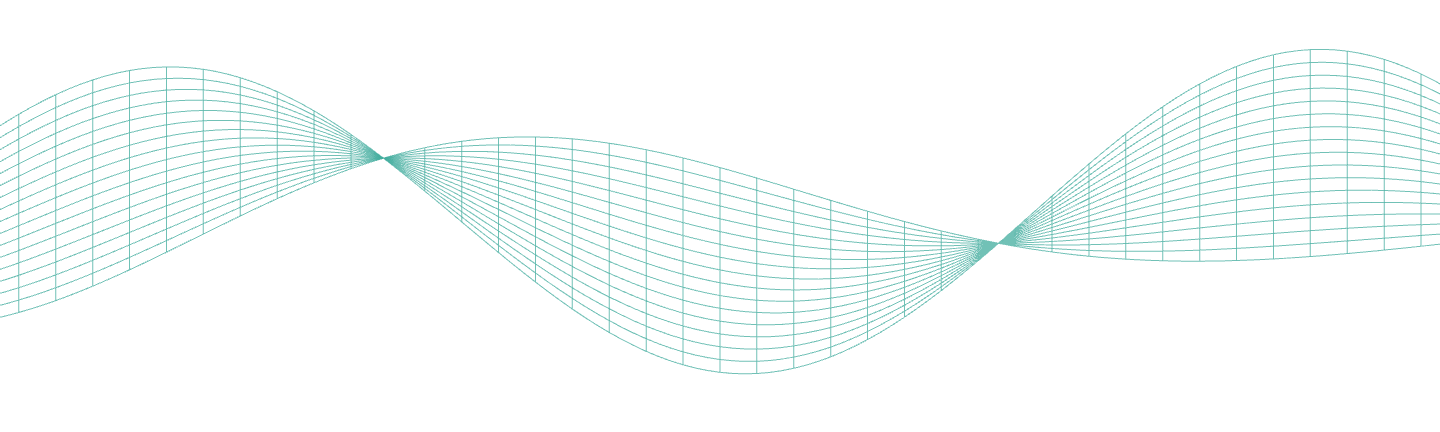
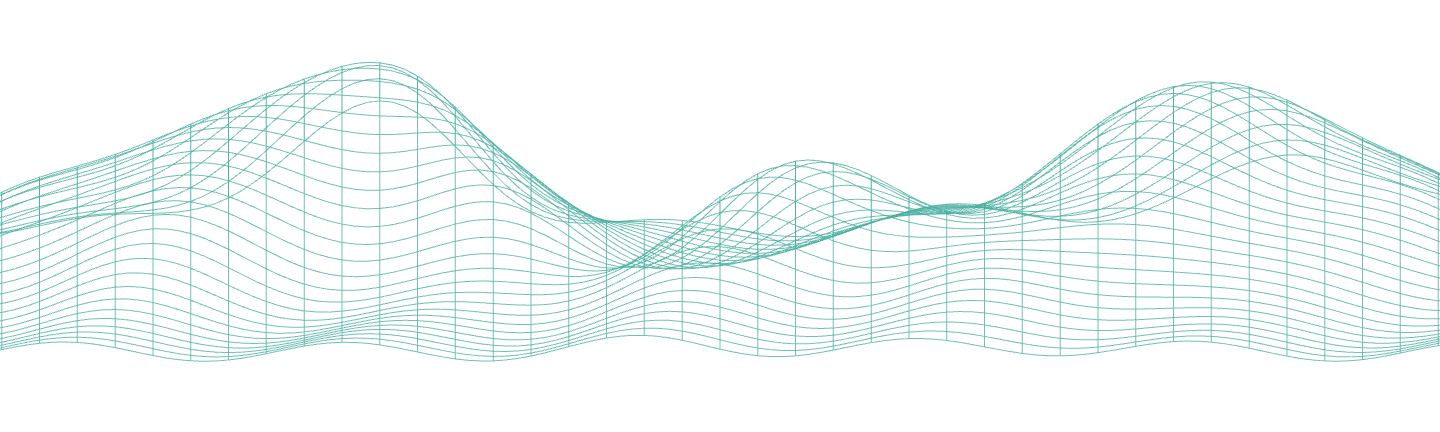
Modela a malha de fundo como relevo topográfico

Changed region(s): [[0.0, 0.0903, 1.0, 0.8727]]

diff --git a/src/scroll-mesh.js b/src/scroll-mesh.js
@@ -4,16 +4,25 @@ const motion = matchMedia("(prefers-reduced-motion: reduce)");
 function createMesh(THREE) {
   const vertices = [];
   const columns = 120;
-  const rows = 16;
+  const rows = 28;
+  const ridges = [
+    // Center, depth, width, slope length and summit height.
+    [-2.8, -.45, 1.35, .62, .84],
+    [-1.6, -.73, .76, .5, .63],
+    [.48, .27, 1.05, .53, .7],
+    [2.75, -.51, 1.3, .72, 1.03]
+  ];
   function point(column, row) {
-    const t = column / columns;
-    const offset = (row / rows - .5) * 1.15;
-    const twist = t * Math.PI * 2.4 - .7;
-    return [
-      (t - .5) * 8.2,
-      .43 * Math.sin(t * Math.PI * 2.7) + offset * Math.cos(twist),
-      .34 * Math.cos(t * Math.PI * 2) + offset * Math.sin(twist)
-    ];
+    const x = (column / columns - .5) * 8.4;
+    const z = (row / rows - .5) * 2.4;
+    const warpedDepth = z + .19 * Math.sin(2.2 * x) + .12 * Math.sin(3.1 * z + x);
+    let elevation = -.44 + .055 * Math.sin(4 * x + 3 * z);
+    for (const [cx, cz, width, length, height] of ridges) {
+      const dx = (x - cx) / width;
+      const dz = (warpedDepth - cz) / length;
+      elevation += height * Math.exp(-dx * dx - dz * dz);
+    }
+    return [x, elevation, z];
   }
   for (let column = 0; column <= columns; column++) {
     for (let row = 0; row <= rows; row++) {
@@ -39,7 +48,7 @@ function draw() {
   const { renderer, scene, camera, mesh } = view;
   const range = document.documentElement.scrollHeight - innerHeight;
   const progress = range > 0 ? Math.min(1, Math.max(0, scrollY / range)) : 0;
-  mesh.rotation.x = .22 + progress * Math.PI * 2;
+  mesh.rotation.x = .28 + progress * .36;
   const ratio = Math.min(devicePixelRatio, 1.5);
   const width = Math.max(1, Math.round(layer.clientWidth * ratio));
   const height = Math.max(1, Math.round(layer.clientHeight * ratio));
